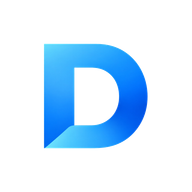
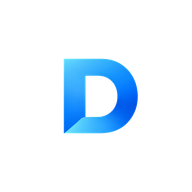
release v0.1.31

Changed region(s): [[0.2188, 0.2188, 0.7812, 0.7812]]

diff --git a/scripts/generate-assets.js b/scripts/generate-assets.js
@@ -75,14 +75,18 @@ async function main() {
   // Trim pixel transparan berlebih untuk mendapatkan batas simbol murni
   const trimmedIconBuf = await sharp(tempRawIcon).trim().toBuffer();
   
-  // Skala simbol ke 560x560 (sekitar 54.6% dari kanvas 1024x1024)
-  // Menjamin safe zone 100% pada adaptive icon Android & maskable PWA
-  const symbolSize = 560;
+  // Skala simbol ke 400x400 (sekitar 39% dari kanvas 1024x1024, lebih proporsional & elegan)
+  // Dilengkapi optical right-shift (+26px) karena huruf D memiliki visual weight vertikal di sisi kiri
+  const symbolSize = 400;
   const resizedSymbol = await sharp(trimmedIconBuf)
     .resize(symbolSize, symbolSize, { fit: 'contain', background: { r: 0, g: 0, b: 0, alpha: 0 } })
     .toBuffer();
 
-  // Simpan master icon yang benar-benar simetris & centered
+  const masterShiftX = 26;
+  const masterLeft = Math.round((1024 - symbolSize) / 2) + masterShiftX;
+  const masterTop = Math.round((1024 - symbolSize) / 2);
+
+  // Simpan master icon yang benar-benar simetris & optically centered
   await sharp({
     create: {
       width: 1024,
@@ -91,7 +95,7 @@ async function main() {
       background: { r: 0, g: 0, b: 0, alpha: 0 }
     }
   })
-    .composite([{ input: resizedSymbol, gravity: 'center' }])
+    .composite([{ input: resizedSymbol, left: masterLeft, top: masterTop }])
     .png()
     .toFile('public/icon.png');
 
@@ -106,12 +110,25 @@ async function main() {
     .toFile('public/favicon.png');
 
   // Apple touch icon (180x180) dengan background putih bersih
-  await sharp(trimmedIconBuf)
-    .resize(110, 110, { fit: 'contain', background: { r: 0, g: 0, b: 0, alpha: 0 } })
-    .extend({
-      top: 35, bottom: 35, left: 35, right: 35,
+  const appleSymbolSize = 85;
+  const appleShiftX = 6;
+  const appleSymbol = await sharp(trimmedIconBuf)
+    .resize(appleSymbolSize, appleSymbolSize, { fit: 'contain', background: { r: 0, g: 0, b: 0, alpha: 0 } })
+    .toBuffer();
+
+  await sharp({
+    create: {
+      width: 180,
+      height: 180,
+      channels: 4,
       background: { r: 255, g: 255, b: 255, alpha: 1 }
-    })
+    }
+  })
+    .composite([{
+      input: appleSymbol,
+      left: Math.round((180 - appleSymbolSize) / 2) + appleShiftX,
+      top: Math.round((180 - appleSymbolSize) / 2)
+    }])
     .png()
     .toFile('public/apple-touch-icon.png');
 
@@ -127,12 +144,13 @@ async function main() {
     .png()
     .toFile('public/icon-512.png');
 
-  // PWA Maskable Icon 512x512 (simbol D aman di tengah dengan safe zone ~58%)
+  // PWA Maskable Icon 512x512 (simbol D lebih kecil & optical right shift)
+  const maskableSize = 200;
+  const maskableShiftX = 13;
   const maskableSymbol = await sharp(trimmedIconBuf)
-    .resize(290, 290, { fit: 'contain', background: { r: 0, g: 0, b: 0, alpha: 0 } })
+    .resize(maskableSize, maskableSize, { fit: 'contain', background: { r: 0, g: 0, b: 0, alpha: 0 } })
     .toBuffer();
 
-  const maskPad = Math.round((512 - 290) / 2);
   await sharp({
     create: {
       width: 512,
@@ -141,7 +159,11 @@ async function main() {
       background: { r: 255, g: 255, b: 255, alpha: 1 }
     }
   })
-    .composite([{ input: maskableSymbol, gravity: 'center' }])
+    .composite([{
+      input: maskableSymbol,
+      left: Math.round((512 - maskableSize) / 2) + maskableShiftX,
+      top: Math.round((512 - maskableSize) / 2)
+    }])
     .png()
     .toFile('public/icon-maskable-512.png');
 
@@ -158,9 +180,9 @@ async function main() {
     const targetDir = path.join('android/app/src/main/res', m.dir);
     if (!fs.existsSync(targetDir)) continue;
 
-    // 1. ic_launcher_foreground.png (108dp canvas, icon inside ~54dp safe zone diameter)
-    // Sesuai standar Android Adaptive Icons: safe zone adalah lingkaran 66dp, kita pakai 54dp agar aman dari pemotongan launcher vendor mana pun
-    const iconSizeInFg = Math.round(m.fg * (54 / 108));
+    // 1. ic_launcher_foreground.png (108dp canvas, icon inside ~38dp safe zone diameter with optical right shift)
+    const iconSizeInFg = Math.round(m.fg * (38 / 108));
+    const shiftFgX = Math.round(m.fg * (3.5 / 108));
     const fgSymbol = await sharp(trimmedIconBuf)
       .resize(iconSizeInFg, iconSizeInFg, { fit: 'contain', background: { r: 0, g: 0, b: 0, alpha: 0 } })
       .toBuffer();
@@ -173,12 +195,17 @@ async function main() {
         background: { r: 0, g: 0, b: 0, alpha: 0 }
       }
     })
-      .composite([{ input: fgSymbol, gravity: 'center' }])
+      .composite([{
+        input: fgSymbol,
+        left: Math.round((m.fg - iconSizeInFg) / 2) + shiftFgX,
+        top: Math.round((m.fg - iconSizeInFg) / 2)
+      }])
       .png()
       .toFile(path.join(targetDir, 'ic_launcher_foreground.png'));
 
     // 2. ic_launcher.png (legacy launcher icon)
-    const iconSizeInLauncher = Math.round(m.launcher * 0.65);
+    const iconSizeInLauncher = Math.round(m.launcher * 0.48);
+    const shiftLauncherX = Math.round(m.launcher * 0.04);
     const launcherSymbol = await sharp(trimmedIconBuf)
       .resize(iconSizeInLauncher, iconSizeInLauncher, { fit: 'contain', background: { r: 0, g: 0, b: 0, alpha: 0 } })
       .toBuffer();
@@ -191,7 +218,11 @@ async function main() {
         background: { r: 255, g: 255, b: 255, alpha: 1 }
       }
     })
-      .composite([{ input: launcherSymbol, gravity: 'center' }])
+      .composite([{
+        input: launcherSymbol,
+        left: Math.round((m.launcher - iconSizeInLauncher) / 2) + shiftLauncherX,
+        top: Math.round((m.launcher - iconSizeInLauncher) / 2)
+      }])
       .png()
       .toFile(path.join(targetDir, 'ic_launcher.png'));
 
@@ -202,12 +233,18 @@ async function main() {
       </svg>`
     );
     const roundBg = await sharp(roundSvg).png().toBuffer();
+    const roundIconSize = Math.round(m.launcher * 0.48);
+    const shiftRoundX = Math.round(m.launcher * 0.04);
     const roundIcon = await sharp(trimmedIconBuf)
-      .resize(Math.round(m.launcher * 0.58), Math.round(m.launcher * 0.58), { fit: 'contain', background: { r: 0, g: 0, b: 0, alpha: 0 } })
+      .resize(roundIconSize, roundIconSize, { fit: 'contain', background: { r: 0, g: 0, b: 0, alpha: 0 } })
       .toBuffer();
 
     await sharp(roundBg)
-      .composite([{ input: roundIcon, gravity: 'center' }])
+      .composite([{
+        input: roundIcon,
+        left: Math.round((m.launcher - roundIconSize) / 2) + shiftRoundX,
+        top: Math.round((m.launcher - roundIconSize) / 2)
+      }])
       .png()
       .toFile(path.join(targetDir, 'ic_launcher_round.png'));
   }
